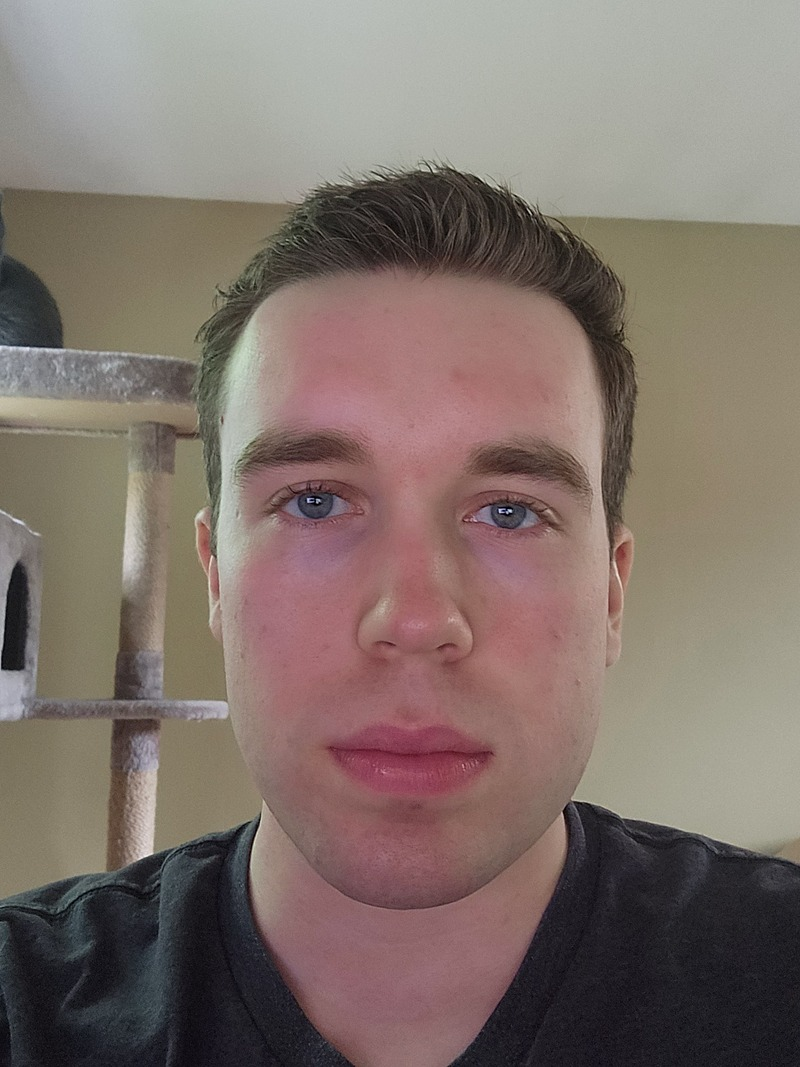
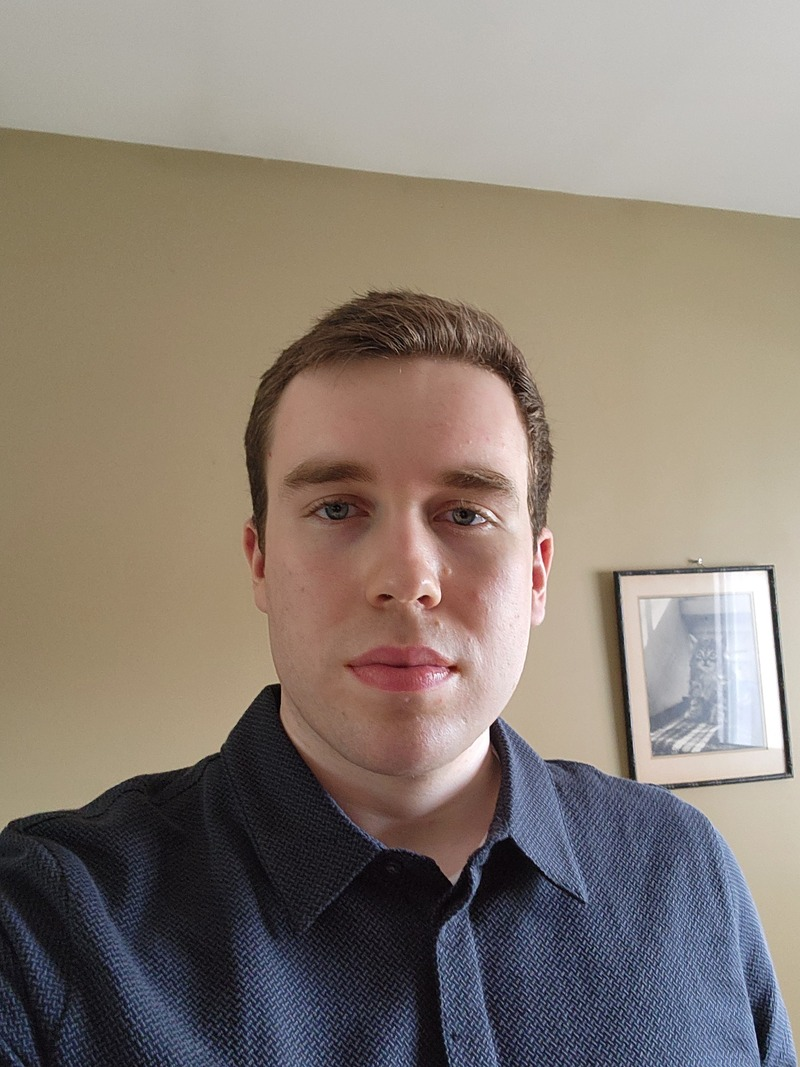
Updated my picture to look less evil. Updated index.js script to remove unused code and add comments

diff --git a/scripts/index.js b/scripts/index.js
@@ -1,49 +1,46 @@
-const overlay = document.querySelector('.overlay');
-const menuBtn = document.querySelector('.menu_btn');
+// Variables selecting sections of the website
+const menu_btn = document.querySelector('.menu_btn');
 const menu = document.querySelector('.menu');
 const menu_links = document.querySelectorAll('.menu a');
 const website_section = document.querySelectorAll('.website_section');
 const current_section = "current_section_open";
 const current_link_visiting = "add_active_link_style";
-const project_divs = document.querySelectorAll('.project_div');
+
+// Strings to use with typeit element on screen to make message appear and disappear
 const home_page_sentences = 
 [
-    'Honours Computer Science graduate', 
+    'Software Developer', 
     'Communications Operator', 
-    'Software Developer',
     'Community Volunteer'
 ];
-menuBtn.addEventListener('change', function() {
-    if (menuBtn.checked) {
-        menu.style.left = '0';
-    } else {
-        menu.style.left = '-100%';
-    }
-});
+closeMenu();
+setSectionToActive();
+setDefaultLinkStyling();
+
+// Definition of TypeIt element used on application to define characteristics
 const typeit_element = new TypeIt("#text", {
     speed: 100,
     loop: true
 });
 
+// Iterates through the array home_page_sentences, inserting each one into the created TypeIt element
 for (const sentence_string of home_page_sentences) {
     typeit_element.type(sentence_string).pause(400).delete(sentence_string.length).pause(400);
 }
 typeit_element.go();
 
-closeMenu();
-setSectionToActive();
-setDefaultLinkStyling();
-
+// Defines dynamically changing styling by first definining the class styling definition in the CSS file, then applying that class to a given element
 function setDefaultLinkStyling(){
     menu_links[0].classList.add(current_link_visiting);
 }
-
+// Close the navigation menu box
 function closeMenu() {
     menu_links.forEach(link => 
         link.addEventListener("click", function() {
-            menuBtn.checked = false;
+            menu_btn.checked = false;
     }));
 }
+// Sets a section as active so it appears in the content section of the website
 function setSectionToActive() {
     menu_links.forEach(link => {
         link.addEventListener('click', function(event) {
@@ -59,23 +56,19 @@ function setSectionToActive() {
         });
     });
 }
+// Functionality for changing the main page section
 function addClassToSection(section, t) {
     section.classList.add(t);
 }
+// Functionality for changing the main page section
 function removeClassFromSection(section, t) {
     section.classList.remove(t);
 }
+// Functionality for changing the menu link styling
 function addStylingToActiveLink(link, t) {
     link.classList.add(t);
 }
+// Functionality for changing the menu link styling
 function removeStylingFromActiveLink(link, t) {
     link.classList.remove(t);
 }
-document.querySelectorAll('.timeline-item').forEach(item => {
-    item.addEventListener('click', () => {
-        document.querySelectorAll('.timeline-item').forEach(innerItem => {
-            innerItem.classList.remove('active');
-        });
-        item.classList.add('active');
-    });
-});
